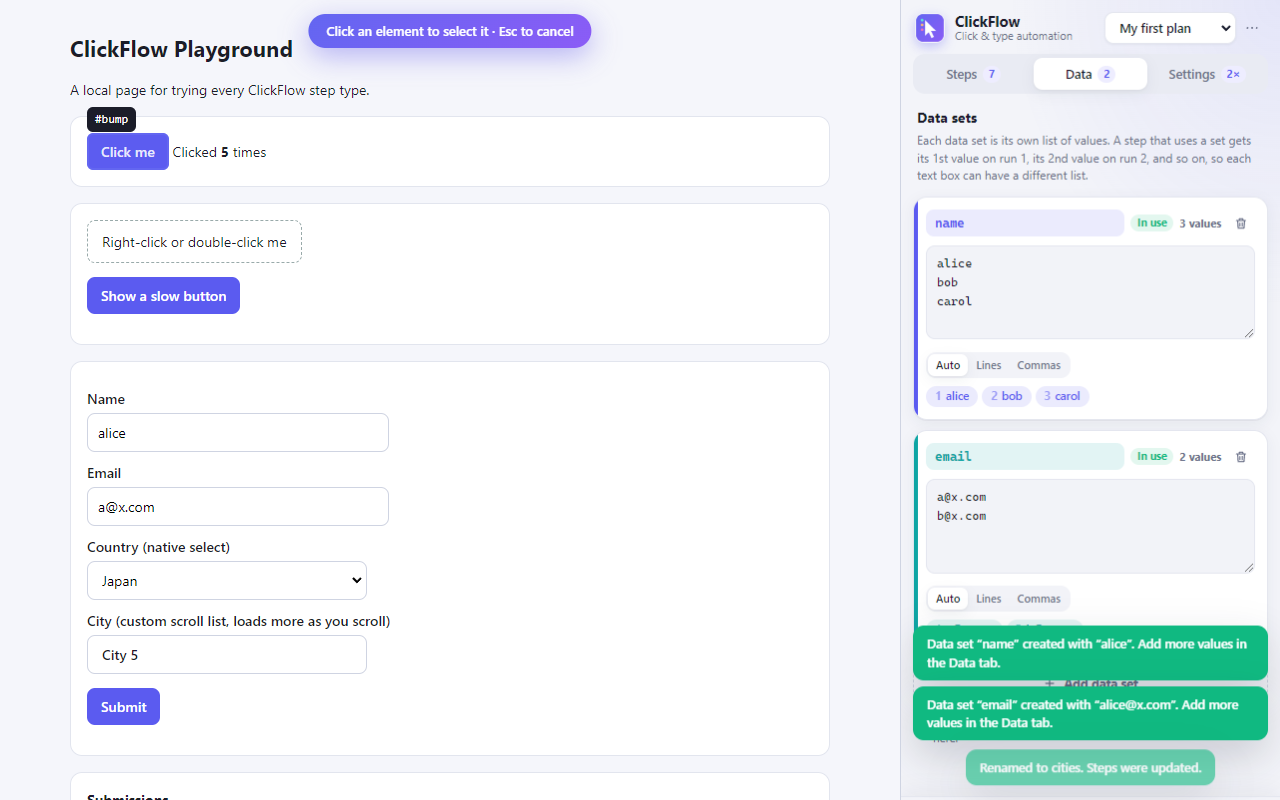
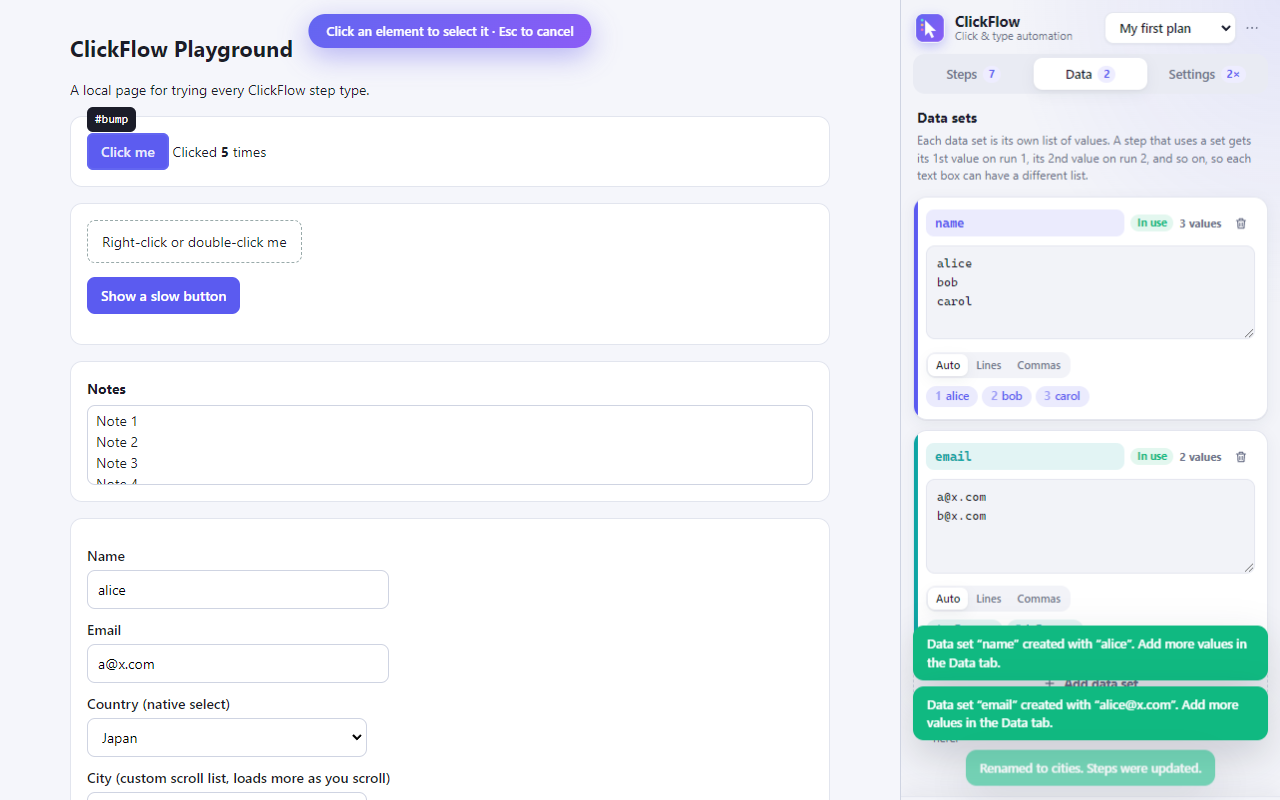
Record scrolling: whole page and individual sections
Scroll steps are recorded per scroller (page or section) from user wheel,
touch, keys or scrollbar input; page-script scrolls are ignored. The
starting point is tracked from scroll events, since Chrome scrolls before
passive wheel handlers run. e2e covers both kinds and replay.

Changed region(s): [[0.0625, 0.4688, 0.3125, 1.0], [0.2812, 0.625, 0.3125, 0.6562]]

diff --git a/src/content/recorder.js b/src/content/recorder.js
@@ -1,5 +1,5 @@
 // Injected on demand (after selector.js) when the user presses Record.
-// Watches the user's own (trusted) clicks, typing and dropdown changes and
+// Watches the user's own (trusted) clicks, typing, dropdown changes and scrolls, and
 // reports each one to the panel as a step. Never records password or payment
 // field contents.
 (() => {
@@ -79,6 +79,7 @@
   }
 
   function flushAllTyping() {
+    flushAllScrolls();
     for (const field of [...session.typing.keys()]) flushTyping(field);
   }
 
@@ -136,6 +137,79 @@
     }
   }
 
+  // ---- Scrolling ----
+  // "scroll" events don't say who scrolled (page scripts scroll too), so a
+  // scroll counts only around the user's own wheel, touch, scroll key or
+  // scrollbar drag. Each scroller (the page, or one section of it) is
+  // tracked on its own; its movement is summed and sent once it rests.
+  // Chrome scrolls on the compositor before input handlers run, so the
+  // starting point is the last position seen, not one read at input time.
+
+  const SCROLL_KEYS = new Set(['PageDown', 'PageUp', 'ArrowDown', 'ArrowUp', 'Home', 'End', ' ']);
+  const MIN_SCROLL_PX = 20;
+  const USER_SCROLL_MS = 800;
+
+  const pageScroller = () => document.scrollingElement || document.documentElement;
+  const scrollTop = (el) => (el === pageScroller() ? window.scrollY : el.scrollTop);
+
+  function onScrollInput(e) {
+    if (!e.isTrusted) return;
+    const t = e.target;
+    if (e.type === 'keydown') {
+      // Keys in fields and on buttons do their own thing, not scrolling.
+      if (!SCROLL_KEYS.has(e.key) || isTextField(t) || (t instanceof Element && t.closest('button,input,select,textarea,[role=button],[role=listbox],[role=menu]'))) return;
+    } else if (e.type === 'pointerdown') {
+      // Only a press on a scrollbar; a click that makes the page scroll
+      // itself (an anchor link, say) replays that scroll by itself.
+      const onBar = (t instanceof Element && t.clientWidth > 0 && (e.offsetX > t.clientWidth || e.offsetY > t.clientHeight))
+        || e.clientX >= document.documentElement.clientWidth;
+      if (!onBar) return;
+    }
+    session.userScrollUntil = Date.now() + USER_SCROLL_MS;
+    // A scroll that landed just before this input event belongs to it.
+    const early = session.unclaimed;
+    session.unclaimed = null;
+    if (early && Date.now() - early.t < 150) claimScroll(early.el, early.from);
+  }
+
+  function claimScroll(el, from) {
+    let s = session.scrolls.get(el);
+    if (!s) {
+      s = { from, timer: 0 };
+      session.scrolls.set(el, s);
+    }
+    session.userScrollUntil = Date.now() + USER_SCROLL_MS; // momentum keeps scrolling
+    clearTimeout(s.timer);
+    s.timer = setTimeout(() => flushScroll(el), 600);
+  }
+
+  function onScroll(e) {
+    if (!e.isTrusted) return;
+    const el = e.target === document || e.target === document.documentElement || e.target === document.body ? pageScroller() : e.target;
+    if (!(el instanceof Element)) return;
+    // Sections are assumed to start at the top until seen scrolling.
+    const from = session.positions.get(el) ?? 0;
+    session.positions.set(el, scrollTop(el));
+    if (Date.now() <= session.userScrollUntil) claimScroll(el, from);
+    else if (!session.scrolls.has(el)) session.unclaimed = { el, from, t: Date.now() };
+  }
+
+  function flushScroll(el, { drop = false } = {}) {
+    const s = session.scrolls.get(el);
+    if (!s) return;
+    clearTimeout(s.timer);
+    session.scrolls.delete(el);
+    const amount = Math.round(scrollTop(el) - s.from);
+    if (drop || Math.abs(amount) < MIN_SCROLL_PX) return;
+    const page = el === pageScroller() || el === document.body;
+    send({ type: 'scroll', mode: 'by', selector: page ? '' : buildSelector(el), amount }, page ? null : el);
+  }
+
+  // Keep the order of actions: pending scrolls go before the next step.
+  function flushAllScrolls() {
+    for (const el of [...session.scrolls.keys()]) flushScroll(el);
+  }
+
   // ---- Clicks ----
 
   function scrollableListFor(item) {
@@ -161,6 +235,8 @@
     const text = textOf(el);
     const list = text && text.length <= 80 && (el.matches(LIST_ITEMS) || el.closest(LIST_ITEMS)) ? scrollableListFor(el) : null;
     if (list && list.matches(`${LIST_CONTAINERS},[class*=list],[class*=menu],[class*=dropdown]`)) {
+      // The "find in list" step scrolls the list itself.
+      flushScroll(list, { drop: true });
       return { type: 'select', selector: buildSelector(list), match: text, matchMode: 'exact' };
     }
     // The visible text is a backup way to find the element if the site
@@ -173,6 +249,7 @@
   // pointerdown so it can still be recorded if no click follows.
   function onPointerDown(e) {
     if (!e.isTrusted || e.button !== 0) return;
+    onScrollInput(e); // may be a scrollbar drag
     const el = clickTarget(e);
     session.pressed = null;
     if (!el) return;
@@ -255,12 +332,18 @@
     ['pointerdown', onPointerDown], ['pointerup', onPointerUp], ['click', onClick], ['input', onInput],
     ['contextmenu', onContextMenu], ['dblclick', onDblClick],
     ['change', onChange], ['keydown', onKeydown], ['focusout', onFocusOut],
+    ['scroll', onScroll], ['wheel', onScrollInput], ['touchstart', onScrollInput], ['keydown', onScrollInput],
   ];
+  const PASSIVE = new Set(['scroll', 'wheel', 'touchstart']);
 
   function start(id) {
     stop();
-    session = { id, typing: new Map(), lastClick: null, pressed: null, enterCandidate: null, ui: buildUi() };
-    for (const [t, fn] of DOC_LISTENERS) document.addEventListener(t, fn, true);
+    session = {
+      id, typing: new Map(), lastClick: null, pressed: null, enterCandidate: null, ui: buildUi(),
+      scrolls: new Map(), positions: new Map(), userScrollUntil: 0, unclaimed: null,
+    };
+    session.positions.set(pageScroller(), window.scrollY);
+    for (const [t, fn] of DOC_LISTENERS) document.addEventListener(t, fn, { capture: true, passive: PASSIVE.has(t) });
     window.addEventListener('keydown', onKeydownAfterPage);
     window.addEventListener('pagehide', onPageHide);
     window.addEventListener('beforeunload', onPageHide);
@@ -269,7 +352,7 @@
   function stop() {
     if (!session) return;
     flushAllTyping();
-    for (const [t, fn] of DOC_LISTENERS) document.removeEventListener(t, fn, true);
+    for (const [t, fn] of DOC_LISTENERS) document.removeEventListener(t, fn, { capture: true });
     window.removeEventListener('keydown', onKeydownAfterPage);
     window.removeEventListener('pagehide', onPageHide);
     window.removeEventListener('beforeunload', onPageHide);

diff --git a/src/sidepanel/panel.js b/src/sidepanel/panel.js
@@ -1128,7 +1128,7 @@ function finishRecording() {
   }
 }
 
-const RECORDABLE = new Set(['click', 'type', 'select']);
+const RECORDABLE = new Set(['click', 'type', 'select', 'scroll']);
 
 function onRecorded(msg, sender) {
   const rec = state.rec;
@@ -1151,6 +1151,14 @@ function onRecorded(msg, sender) {
     }
   }
   const last = p.blocks.at(-1);
+  // Consecutive scrolls of the same thing are one step.
+  if (b.type === 'scroll' && last?.type === 'scroll' && last.mode === 'by' && last.selector === b.selector && rec.added > 0) {
+    last.amount = Math.max(-100000, Math.min(100000, last.amount + b.amount));
+    save();
+    rerenderBlock(last.id);
+    cardFor(last.id)?.classList.add('just-added');
+    return;
+  }
   // Consecutive typing into the same field is one step.
   if (b.type === 'type' && last?.type === 'type' && last.selector === b.selector) {
     last.text = b.text;

diff --git a/test/playground.html b/test/playground.html
@@ -37,6 +37,12 @@
     </ul>
   </div>
 
+  <!-- A section that scrolls on its own, inside a page that scrolls too. -->
+  <div class="card">
+    <strong>Notes</strong>
+    <div id="notes" style="height:70px;overflow-y:auto;border:1px solid #cfd4e2;border-radius:8px;padding:4px 8px;margin-top:6px"></div>
+  </div>
+
   <form class="card" id="form">
     <label for="name">Name</label>
     <input id="name" name="name" placeholder="Full name">
@@ -71,6 +77,7 @@
   <p id="footer">Bottom of the page.</p>
 
 <script>
+  document.getElementById('notes').append(...Array.from({ length: 40 }, (_, i) => Object.assign(document.createElement('div'), { textContent: `Note ${i + 1}` })));
   const CITIES = Array.from({ length: 300 }, (_, i) => `City ${i + 1}`)
     .concat(['alice', 'bob', 'carol', 'Hanoi', 'Tokyo', 'Paris']);
   const list = document.getElementById('cityList');

diff --git a/README.md b/README.md
@@ -6,7 +6,7 @@ A Chrome extension for automating repetitive clicks and typing on web pages. You
 
 ## Features
 
-- **Record instead of building by hand.** Press **Record** and use the page as you normally would. Each click, text entry, and dropdown choice appears as a step. Clicks on items in scrollable lists become "find in list" steps, so they keep working when the list moves or loads more items. Typing into the same field is combined into a single step. Password and payment fields are never recorded.
+- **Record instead of building by hand.** Press **Record** and use the page as you normally would. Each click, text entry, and dropdown choice appears as a step. Clicks on items in scrollable lists become "find in list" steps, so they keep working when the list moves or loads more items. Typing into the same field is combined into a single step. Scrolling is recorded too: scrolling the whole page becomes a page Scroll step, and scrolling inside one section (a panel, a feed, a sidebar) becomes a Scroll step for that section. Scrolls done by the page itself are ignored. Password and payment fields are never recorded.
 - **Data sets: a separate list for each text box.** In the **Data** tab, press **+ Add data set** to create a named list of strings, one per line or comma-separated. Make one for each field that needs different values, for example `names` for the first text box and `emails` for the second. On run 1 each step gets the 1st value of its set, on run 2 the 2nd, and so on.
 - **Choose the data set from a dropdown.** Type text and Select steps have a **Value** dropdown: *Fixed text*, any of your data sets, or *+ New data set*. That last option creates a set named after the field (`#email` becomes `email`), starting with the text you recorded.
 - **Runs are counted for you.** In **Automatic** mode (the default), ClickFlow counts the values in each data set your steps use and does one run per value. If several sets are used, it follows the **shortest** one. Switch to **Fixed number** to choose the count yourself (quick buttons for 1, 3, 5, and 10), and choose what happens when a set runs out: start over, leave the field empty, or stop.

diff --git a/lessons-learned/2026-10-31-slow-steps-and-stop-review.md b/lessons-learned/2026-10-31-slow-steps-and-stop-review.md
@@ -52,3 +52,16 @@ Regression tests are in `test/e2e.mjs`:
 - **Symptom:** with the log open, resizing it didn't visibly shorten the steps. The log was a floating card with margins and a shadow, and there was empty space between the steps and the log.
 - **Fix (`panel.css`, `panel.js`):** the log is docked as a split view: full width, a divider on its top edge, a default height of 38vh, and `flex: none` under `main` (which is `flex: 1`). It can be dragged from the divider or the header, the running step stays in view while dragging, and double-clicking resets the size.
 - **Guard:** e2e checks that the steps area ends where the log begins, and that it shrinks by exactly the amount the log grows.
+
+## Scrolling wasn't recorded (follow-up)
+
+- **Symptom:** recording a flow that scrolls produced no Scroll steps.
+- **Root cause:** the recorder never listened for scrolling. When added, the first version recorded 0 px. Chrome scrolls on the compositor *before* passive wheel handlers run, so a "before" position read in the wheel handler was already the "after" position.
+- **Fix (`recorder.js`):**
+  - Each scroller (the page, or one section of it) is tracked on its own, from the last position seen in its `scroll` events.
+  - A scroll counts only within 800 ms of the user's wheel, touch, scroll key, or scrollbar press. A scroll that lands up to 150 ms *before* that input is claimed too.
+  - Movement is summed and sent 600 ms after it stops. Pending scrolls are sent before the next click or typing, to keep the order.
+  - A section that a following "find in list" step will scroll anyway is dropped.
+  - The panel merges back-to-back scrolls of the same target.
+- **Guard:** e2e "recorded section and whole-page scrolls separately…": a section scroll and a page scroll, plus a script scroll that must be ignored, replayed to the same positions.
+- **Lesson:** don't read "before" state in a passive input handler. Track state from the events that change it.
